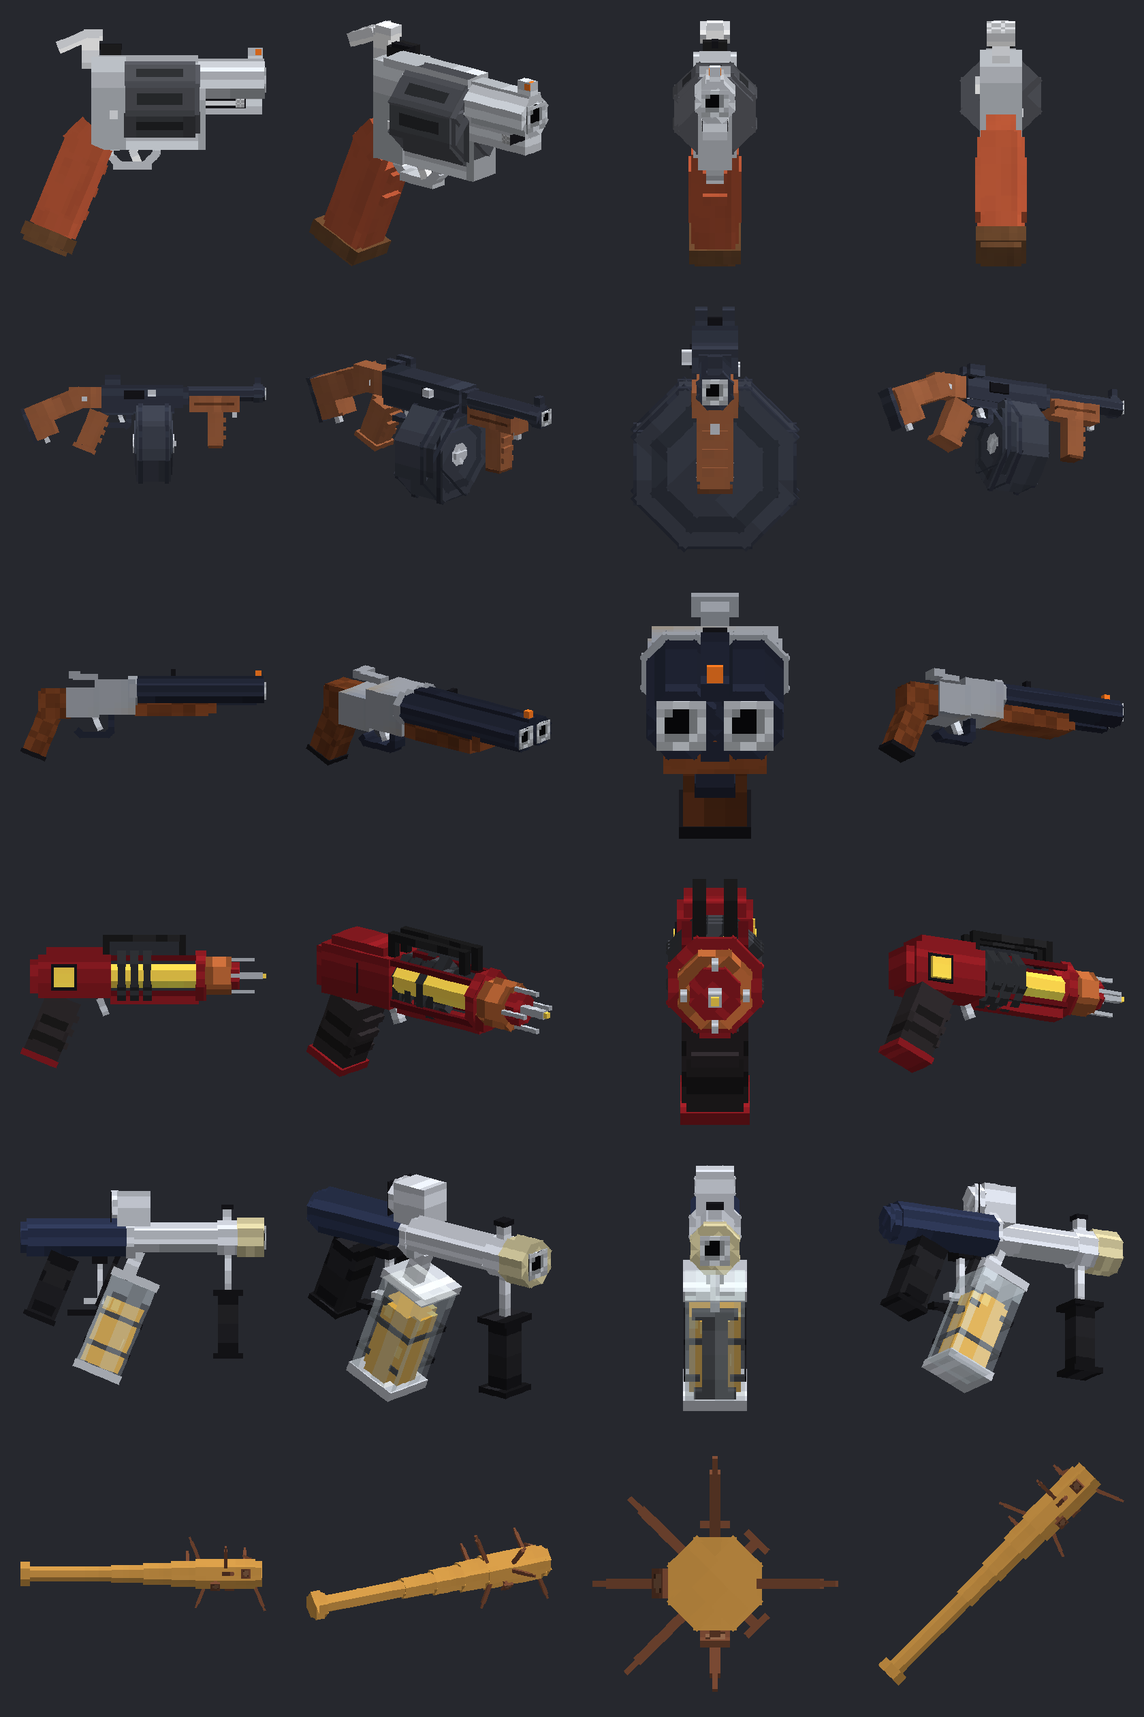
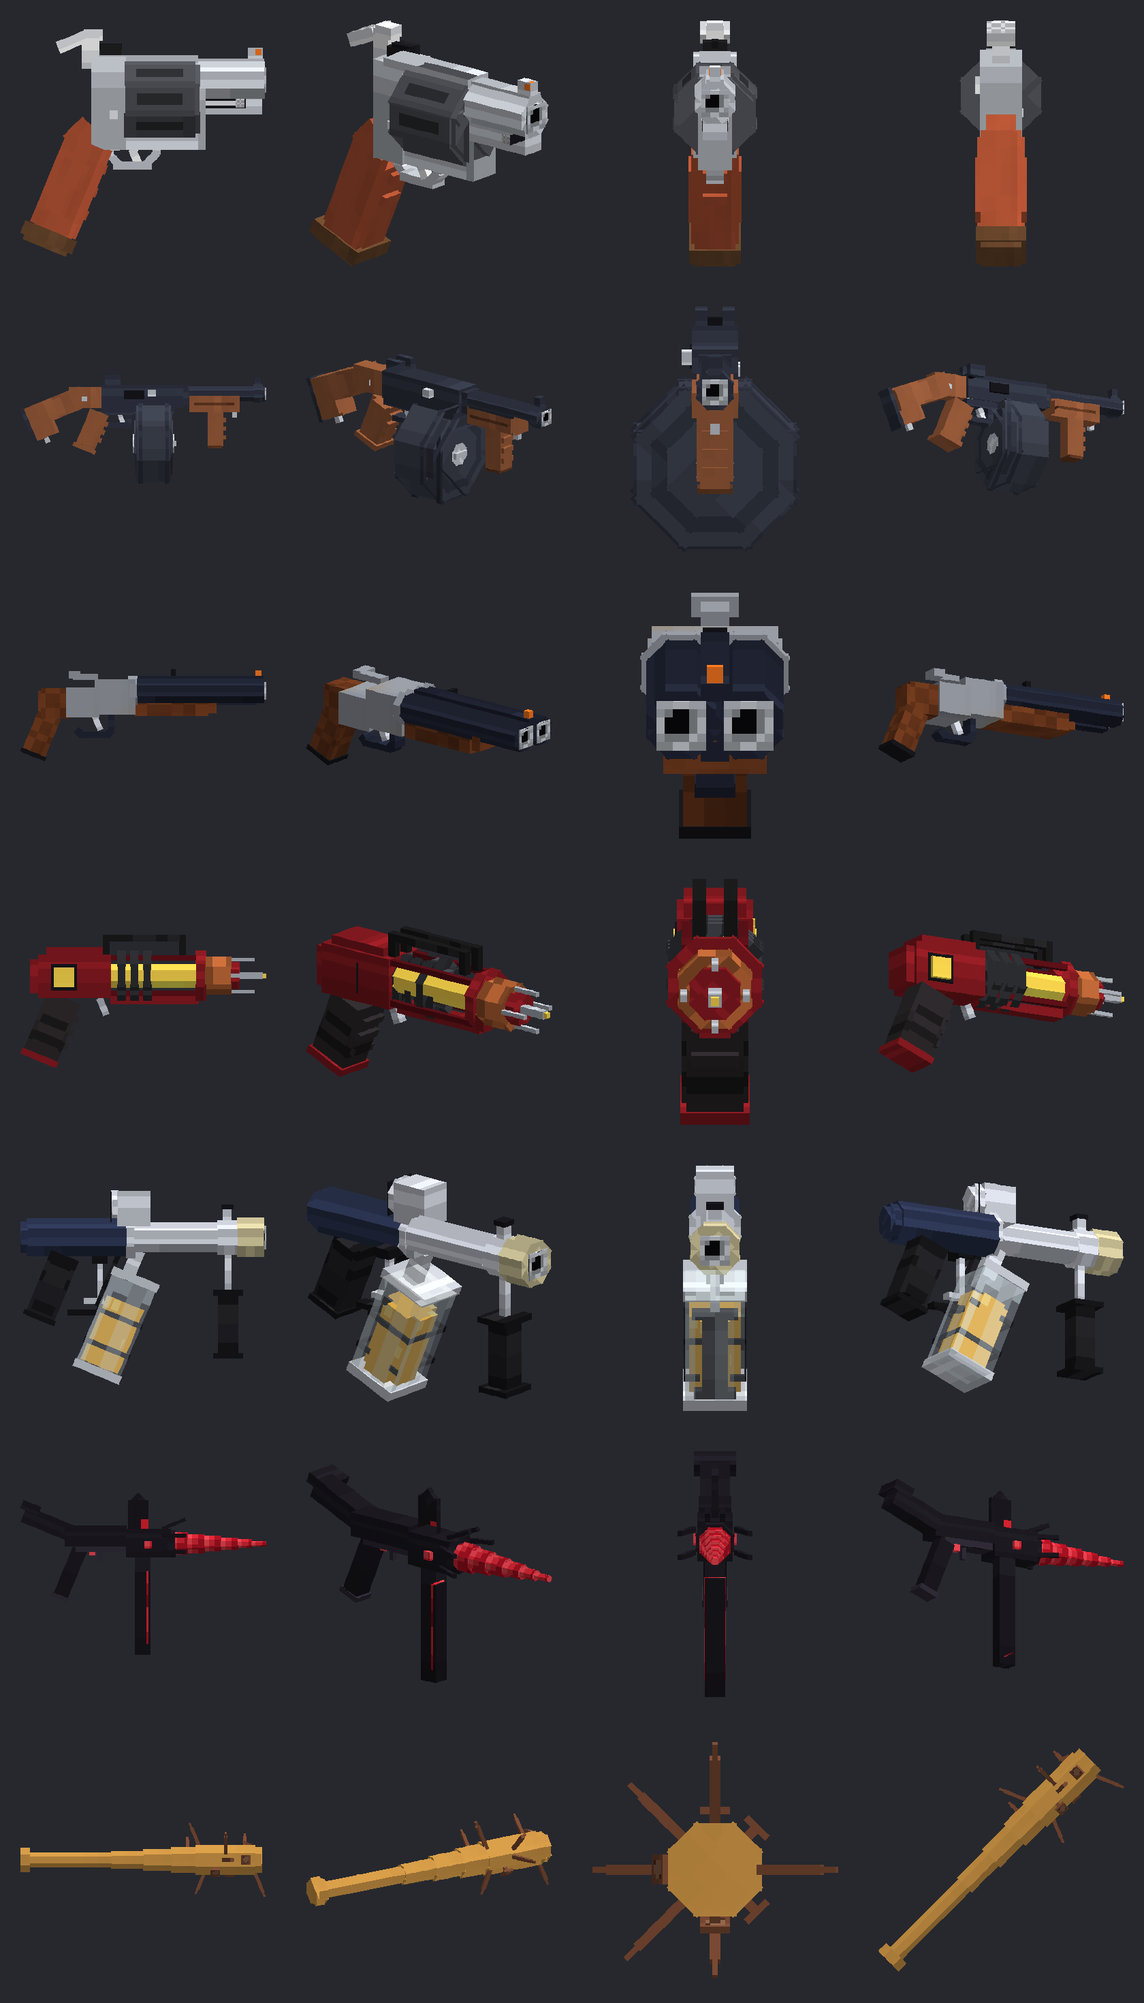
0.7.0: Umbral Lance (piercing crimson beam with Darkness; black model with glowing red crystal)
Claude-Session: https://claude.ai/code/session_01G8stAj2NsEdEgKC46eLYfu

diff --git a/src/main/java/dev/handcannon/UmbralLance.java b/src/main/java/dev/handcannon/UmbralLance.java
@@ -1,0 +1,137 @@
+package dev.handcannon;
+
+import org.bukkit.Color;
+import org.bukkit.FluidCollisionMode;
+import org.bukkit.GameMode;
+import org.bukkit.Location;
+import org.bukkit.NamespacedKey;
+import org.bukkit.Particle;
+import org.bukkit.Sound;
+import org.bukkit.SoundCategory;
+import org.bukkit.World;
+import org.bukkit.entity.Entity;
+import org.bukkit.entity.LivingEntity;
+import org.bukkit.entity.Player;
+import org.bukkit.event.Event;
+import org.bukkit.event.EventHandler;
+import org.bukkit.event.Listener;
+import org.bukkit.event.block.Action;
+import org.bukkit.event.player.PlayerInteractEntityEvent;
+import org.bukkit.event.player.PlayerInteractEvent;
+import org.bukkit.inventory.EquipmentSlot;
+import org.bukkit.inventory.ItemStack;
+import org.bukkit.persistence.PersistentDataType;
+import org.bukkit.potion.PotionEffect;
+import org.bukkit.potion.PotionEffectType;
+import org.bukkit.util.BoundingBox;
+import org.bukkit.util.RayTraceResult;
+import org.bukkit.util.Vector;
+
+import java.util.Comparator;
+import java.util.List;
+
+/**
+ * The Umbral Lance: right-click fires an instant crimson beam that pierces everything in a line up to the first
+ * wall. Each target takes damage and is wrapped in Darkness (the pulsing black vision the Warden causes).
+ */
+final class UmbralLance implements Listener {
+    private static final Particle.DustOptions CRIMSON = new Particle.DustOptions(Color.fromRGB(200, 20, 40), 1.4f);
+    private static final Particle.DustOptions EMBER = new Particle.DustOptions(Color.fromRGB(255, 70, 80), 0.8f);
+
+    private final HandCannonPlugin plugin;
+    private final NamespacedKey key;
+
+    UmbralLance(HandCannonPlugin plugin) {
+        this.plugin = plugin;
+        key = new NamespacedKey(plugin, "umbral_lance");
+    }
+
+    ItemStack create() { return plugin.makeGun(key, "Umbral Lance", "Right-click to loose a beam of darkness", "handcannon:umbral_lance"); }
+
+    boolean is(ItemStack it) {
+        return it != null && it.hasItemMeta() && it.getItemMeta().getPersistentDataContainer().has(key, PersistentDataType.BYTE);
+    }
+
+    @EventHandler
+    public void onInteract(PlayerInteractEvent e) {
+        if (e.getAction() != Action.RIGHT_CLICK_AIR && e.getAction() != Action.RIGHT_CLICK_BLOCK) return;
+        if (!is(e.getItem())) return;
+        e.setUseItemInHand(Event.Result.DENY);
+        e.setUseInteractedBlock(Event.Result.DENY);
+        Player p = e.getPlayer();
+        if (e.getHand() == EquipmentSlot.OFF_HAND && is(p.getInventory().getItemInMainHand())) return;
+        fire(p, e.getItem());
+    }
+
+    @EventHandler
+    public void onInteractEntity(PlayerInteractEntityEvent e) {
+        Player p = e.getPlayer();
+        ItemStack it = p.getInventory().getItem(e.getHand());
+        if (!is(it)) return;
+        e.setCancelled(true);
+        if (e.getHand() == EquipmentSlot.OFF_HAND && is(p.getInventory().getItemInMainHand())) return;
+        fire(p, it);
+    }
+
+    private void fire(Player p, ItemStack gun) {
+        if (!p.hasPermission("handcannon.use") || p.hasCooldown(gun)) return;
+        var cfg = plugin.getConfig();
+        p.setCooldown(gun, Math.max(1, cfg.getInt("umbral.cooldown-ticks", 24)));
+        double range = cfg.getDouble("umbral.range", 40);
+        double damage = cfg.getDouble("umbral.damage", 10);
+        int darkness = Math.max(0, cfg.getInt("umbral.darkness-ticks", 100));
+
+        World w = p.getWorld();
+        Location eye = p.getEyeLocation();
+        Vector dir = eye.getDirection().normalize();
+
+        // the beam stops at the first wall, and runs through every creature before it
+        RayTraceResult wall = w.rayTraceBlocks(eye, dir, range, FluidCollisionMode.NEVER, true);
+        double length = wall != null ? wall.getHitPosition().distance(eye.toVector()) : range;
+        Vector from = eye.toVector(), to = from.clone().add(dir.clone().multiply(length));
+        BoundingBox sweep = BoundingBox.of(from, to).expand(1.0);
+        List<LivingEntity> hits = w.getNearbyEntities(sweep, ent -> canHit(p, ent)).stream()
+                .map(ent -> (LivingEntity) ent)
+                .filter(le -> le.getBoundingBox().expand(0.3).rayTrace(from, dir, length) != null)
+                .sorted(Comparator.comparingDouble(le -> le.getLocation().distanceSquared(eye)))
+                .toList();
+
+        // muzzle, then the beam: a crimson core wrapped in drifting black smoke
+        Vector right = dir.clone().crossProduct(new Vector(0, 1, 0));
+        if (right.lengthSquared() < 1e-6) right = new Vector(1, 0, 0); else right.normalize();
+        Vector muzzle = from.clone().add(dir.clone().multiply(1.4)).add(right.multiply(0.3)).add(new Vector(0, -0.2, 0));
+        w.playSound(eye, Sound.ENTITY_WITHER_SHOOT, SoundCategory.PLAYERS, 0.8f, 0.6f);
+        w.playSound(eye, Sound.BLOCK_AMETHYST_BLOCK_RESONATE, SoundCategory.PLAYERS, 1.4f, 0.5f);
+        w.spawnParticle(Particle.SMOKE, muzzle.toLocation(w), 10, 0.1, 0.1, 0.1, 0.02);
+        Vector path = to.clone().subtract(muzzle);
+        double len = path.length();
+        if (len > 0.01) {
+            path.multiply(1 / len);
+            for (double d = 0; d < len; d += 0.3) {
+                Location at = muzzle.clone().add(path.clone().multiply(d)).toLocation(w);
+                w.spawnParticle(Particle.DUST, at, 1, 0.02, 0.02, 0.02, 0, CRIMSON);
+                if (d % 1.2 < 0.3) w.spawnParticle(Particle.SMOKE, at, 1, 0.08, 0.08, 0.08, 0.005);
+            }
+        }
+        if (wall != null) {
+            Location at = wall.getHitPosition().toLocation(w);
+            w.spawnParticle(Particle.DUST, at, 12, 0.15, 0.15, 0.15, 0, EMBER);
+            w.spawnParticle(Particle.LARGE_SMOKE, at, 3, 0.1, 0.1, 0.1, 0.01);
+        }
+
+        for (LivingEntity target : hits) {
+            target.setNoDamageTicks(0);
+            target.damage(damage, p);
+            if (darkness > 0) target.addPotionEffect(new PotionEffect(PotionEffectType.DARKNESS, darkness, 0, false, true, true));
+            Location at = target.getLocation().add(0, target.getHeight() / 2, 0);
+            w.spawnParticle(Particle.SOUL, at, 6, 0.25, 0.4, 0.25, 0.02);
+            w.spawnParticle(Particle.DUST, at, 10, 0.25, 0.4, 0.25, 0, EMBER);
+            w.playSound(at, Sound.ENTITY_WARDEN_HEARTBEAT, SoundCategory.PLAYERS, 1f, 0.8f);
+        }
+    }
+
+    private static boolean canHit(Player shooter, Entity ent) {
+        if (ent == shooter || !(ent instanceof LivingEntity le) || le.isDead()) return false;
+        return !(ent instanceof Player pl && pl.getGameMode() == GameMode.SPECTATOR);
+    }
+}

diff --git a/tools/make_pack.py b/tools/make_pack.py
@@ -601,6 +601,68 @@ box((6.1, 1.4, 7.7), (9.9, 8.4, 10.3), "rubber", rot=PG)
 box((6.0, 0.4, 7.0), (10.0, 1.0, 11.0), "rubber", rot=PG)
 GOO = elements
 
+# ---------------- geometry: umbral lance ----------------
+# An ominous darkness weapon: a long tapering spike of glowing red crystal out of a black, thorned receiver with a
+# red gem each side and a tall fin carrying a red rune, a long stock rising to a flared tail, a tall blade-like
+# front grip with a red inlay and a raked rear grip. Barrel toward north (-z) like the other guns.
+def tex_crystal():
+    im = Image.new("RGBA", (16, 16)); px = im.load()
+    for y in range(16):
+        for x in range(16):
+            k = (x + y) % 8
+            c = (236, 70, 82) if k == 0 else (214, 40, 54) if k in (1, 7) else (170, 18, 34) if k < 5 else (124, 10, 24)
+            px[x, y] = c + (255,)
+    return im
+def tex_rune():
+    """Black plate with an original red sigil: a downward triangle with an eye-ring and a spike through it."""
+    S = 64; im = Image.new("RGBA", (S, S), (26, 24, 30, 255)); d = ImageDraw.Draw(im)
+    red = (220, 34, 48, 255)
+    d.polygon([(10, 12), (54, 12), (32, 54)], outline=red, width=3)
+    d.ellipse((24, 18, 40, 34), outline=red, width=3)
+    d.ellipse((30, 24, 34, 28), fill=red)
+    d.line((32, 4, 32, 60), fill=red, width=2)
+    return im
+UMB_TEX = {"black": tex_metal((26, 24, 30)), "black_soft": tex_metal((44, 40, 50), 0, edge=False),
+           "crystal": tex_crystal(), "rune": tex_rune()}
+for k, im in UMB_TEX.items(): im.save(path("assets", NS, "textures", "item", "umbral_lance", k + ".png"))
+FULL_UV.add("rune")
+
+elements = []
+# the crystal spike: stepped round sections tapering to a point, and a black collar where it meets the receiver
+for z0, z1, dia in ((-16.0, -13.5, 0.8), (-13.5, -11.0, 1.4), (-11.0, -8.0, 2.0), (-8.0, -5.0, 2.6), (-5.0, -2.0, 3.2), (-2.0, 0.6, 3.8)):
+    round_prism(8, 11.0, dia, z0, z1, "crystal")
+round_prism(8, 11.0, 4.7, 0.3, 1.5, "black")
+# receiver, with thorns jutting forward and outward, and a red gem on each side
+box((5.8, 8.6, 1.0), (10.2, 13.6, 9.0), "black")
+for y0 in (12.2, 9.2):
+    box((5.0, y0, -2.0), (5.6, y0 + 0.6, 2.4), "black", rot=("y", 22.5, (5.3, y0 + 0.3, 2.4)))      # left thorns
+    box((10.4, y0, -2.0), (11.0, y0 + 0.6, 2.4), "black", rot=("y", -22.5, (10.7, y0 + 0.3, 2.4)))  # right thorns
+for x0 in (6.8, 8.6):
+    box((x0, 13.4, -2.0), (x0 + 0.6, 14.0, 2.4), "black", rot=("x", 22.5, (x0 + 0.3, 13.7, 2.4)))   # top thorns
+box((5.3, 10.2, 4.4), (5.85, 11.4, 5.6), "crystal")                    # gems
+box((10.15, 10.2, 4.4), (10.7, 11.4, 5.6), "crystal")
+# tall fin with the rune on both faces, capped with a point
+box((7.6, 13.6, 5.0), (8.4, 18.8, 8.6), "black", {"east": "rune", "west": "rune"})
+box((7.62, 18.0, 5.9), (8.38, 19.8, 7.7), "black", rot=("x", 45, (8, 18.9, 6.8)))
+# long stock: a flat body, then a section rising to a flared tail, with a lower plate
+box((6.0, 10.6, 9.0), (10.0, 14.2, 20.0), "black")
+RISE = ("x", -22.5, (8, 13.0, 19.0))
+box((6.2, 11.4, 19.0), (9.8, 14.4, 28.0), "black", rot=RISE)
+box((5.4, 13.6, 25.6), (10.6, 15.2, 29.0), "black", rot=RISE)          # flared tail
+box((6.4, 9.6, 9.1), (9.6, 10.8, 18.0), "black_soft")                  # lower plate
+# tall blade-like front grip with a red inlay down each side
+box((6.8, -9.0, 4.6), (9.2, 8.8, 7.4), "black")
+box((6.7, -7.0, 5.0), (9.3, 6.0, 5.3), "crystal")
+# trigger and the raked rear grip, with a red knob at its top
+box((7.6, 7.8, 13.4), (8.4, 9.6, 14.0), "black_soft")
+GR = ("x", -22.5, (8, 10.0, 17.3))
+box((6.6, 1.0, 16.0), (9.4, 10.0, 18.6), "black", rot=GR)
+box((6.4, 0.2, 15.6), (9.6, 1.0, 19.0), "black_soft", rot=GR)
+box((7.4, 9.0, 14.6), (8.6, 10.0, 15.6), "crystal")
+for e in elements:   # the crystal glows faintly in the dark
+    if any(f["texture"] == "#crystal" for f in e["faces"].values()): e["light_emission"] = 10
+UMBRAL = elements
+
 # ---------------- maths for preview + auto-centring ----------------
 def rot_axis(v, axis, deg, origin):
     a = math.radians(deg); c, s = math.cos(a), math.sin(a)
@@ -682,6 +744,16 @@ GOO_DISPLAY = {
     "thirdperson_righthand": centred(GOO, (0, 0, 0), 0.5, (0, 3, -2)),
     "thirdperson_lefthand":  centred(GOO, (0, 0, 0), 0.5, (0, 3, -2)),
 }
+UMBRAL_DISPLAY = {
+    "gui":                   centred(UMBRAL, (0, 90, 0), 0.34),
+    "ground":                centred(UMBRAL, (0, 90, 0), 0.26),
+    "fixed":                 centred(UMBRAL, (0, 90, 0), 0.36),
+    "head":                  centred(UMBRAL, (0, 0, 0), 0.4, (0, 8, 0)),
+    "firstperson_righthand": centred(UMBRAL, (0, 0, 0), 0.5, (3, -1, -4)),
+    "firstperson_lefthand":  centred(UMBRAL, (0, 0, 0), 0.5, (3, -1, -4)),
+    "thirdperson_righthand": centred(UMBRAL, (0, 0, 0), 0.5, (0, 3, -1)),
+    "thirdperson_lefthand":  centred(UMBRAL, (0, 0, 0), 0.5, (0, 3, -1)),
+}
 # The bat is held like a sword: these are vanilla's handheld transforms, turned 45 degrees further because the
 # bat model stands upright where a sword sprite runs corner to corner.
 BAT_DISPLAY = {
@@ -709,6 +781,7 @@ write_item("tommy_gun", TOMMY, TOMMY_TEX, TOMMY_DISPLAY, "steel")
 write_item("shotgun", SHOTGUN, SG_TEX, SHOTGUN_DISPLAY, "blued")
 write_item("pala_pistol", PALA, PALA_TEX, PALA_DISPLAY, "body")
 write_item("goo_cannon", GOO, GOO_TEX, GOO_DISPLAY, "steel", GOO_TEX_PATHS)
+write_item("umbral_lance", UMBRAL, UMB_TEX, UMBRAL_DISPLAY, "black")
 # pack.mcmeta: resource pack format 88 = Minecraft 26.2
 wjson(path("pack.mcmeta"), {"pack": {"description": "HandCannon weapons", "min_format": [88, 0], "max_format": [99, 0]}})
 
@@ -772,6 +845,7 @@ rows = [[render(GUN, TEX, -90, 0), render(GUN, TEX, -130, 18), render(GUN, TEX, 
         [render(SHOTGUN, SG_TEX, -90, 0), render(SHOTGUN, SG_TEX, -130, 18), render(SHOTGUN, SG_TEX, 180, 8), render(SHOTGUN, SG_TEX, -60, -15)],
         [render(PALA, PALA_TEX, -90, 0), render(PALA, PALA_TEX, -130, 18), render(PALA, PALA_TEX, 180, 8), render(PALA, PALA_TEX, -60, -15)],
         [render(GOO, GOO_PREVIEW_TEX, -90, 0), render(GOO, GOO_PREVIEW_TEX, -130, 18), render(GOO, GOO_PREVIEW_TEX, 180, 8), render(GOO, GOO_PREVIEW_TEX, -60, -15)],
+        [render(UMBRAL, UMB_TEX, -90, 0), render(UMBRAL, UMB_TEX, -130, 18), render(UMBRAL, UMB_TEX, 180, 8), render(UMBRAL, UMB_TEX, -60, -15)],
         [render(BAT, BAT_TEX, 0, 0, -90), render(BAT, BAT_TEX, 30, 20, -90), render(BAT, BAT_TEX, 0, 90), render(BAT, BAT_TEX, 0, 0, -45)]]
 pv = Image.new("RGBA", (420 * 4, 420 * len(rows)))
 for r, row in enumerate(rows):

diff --git a/src/main/java/dev/handcannon/HandCannonPlugin.java b/src/main/java/dev/handcannon/HandCannonPlugin.java
@@ -54,6 +54,7 @@ public final class HandCannonPlugin extends JavaPlugin implements Listener, TabE
     private NailBat bat;
     private PalaPistol pala;
     private GooCannon goo;
+    private UmbralLance umbral;
     /** Last tick each player fired the Tommy gun, so one click can't fire twice (both hands, block + entity events). */
     private final Map<UUID, Integer> lastTommyShot = new HashMap<>();
 
@@ -68,10 +69,12 @@ public final class HandCannonPlugin extends JavaPlugin implements Listener, TabE
         bat = new NailBat(this);
         pala = new PalaPistol(this);
         goo = new GooCannon(this);
+        umbral = new UmbralLance(this);
         getServer().getPluginManager().registerEvents(this, this);
         getServer().getPluginManager().registerEvents(bat, this);
         getServer().getPluginManager().registerEvents(pala, this);
         getServer().getPluginManager().registerEvents(goo, this);
+        getServer().getPluginManager().registerEvents(umbral, this);
         var cmd = getCommand("handcannon");
         if (cmd != null) { cmd.setExecutor(this); cmd.setTabCompleter(this); }
     }
@@ -311,17 +314,17 @@ public final class HandCannonPlugin extends JavaPlugin implements Listener, TabE
         String sub = args.length == 0 ? "give" : args[0].toLowerCase();
         switch (sub) {
             case "give" -> {
-                // /hc give [gun|tommy|shotgun|pala|goo|bat] [player]; the item can be left out (gun)
+                // /hc give [gun|tommy|shotgun|pala|goo|umbral|bat] [player]; the item can be left out (gun)
                 int i = 1;
                 String what = "gun";
-                if (args.length > i && List.of("gun", "tommy", "shotgun", "pala", "goo", "bat").contains(args[i].toLowerCase())) what = args[i++].toLowerCase();
+                if (args.length > i && List.of("gun", "tommy", "shotgun", "pala", "goo", "umbral", "bat").contains(args[i].toLowerCase())) what = args[i++].toLowerCase();
                 Player target;
                 if (args.length > i) target = Bukkit.getPlayerExact(args[i]);
                 else target = sender instanceof Player self ? self : null;
-                if (target == null) { sender.sendMessage(Component.text("Usage: /" + label + " give [gun|tommy|shotgun|pala|goo|bat] <player>", NamedTextColor.RED)); return true; }
-                ItemStack item = switch (what) { case "bat" -> bat.create(); case "tommy" -> createTommy(); case "shotgun" -> createShotgun(); case "pala" -> pala.create(); case "goo" -> goo.create(); default -> createGun(); };
+                if (target == null) { sender.sendMessage(Component.text("Usage: /" + label + " give [gun|tommy|shotgun|pala|goo|umbral|bat] <player>", NamedTextColor.RED)); return true; }
+                ItemStack item = switch (what) { case "bat" -> bat.create(); case "tommy" -> createTommy(); case "shotgun" -> createShotgun(); case "pala" -> pala.create(); case "goo" -> goo.create(); case "umbral" -> umbral.create(); default -> createGun(); };
                 target.getInventory().addItem(item).values().forEach(left -> target.getWorld().dropItem(target.getLocation(), left));
-                sender.sendMessage(Component.text("Gave a " + switch (what) { case "bat" -> "Nail Bat"; case "tommy" -> "Tommy Gun"; case "shotgun" -> "Double Barrel"; case "pala" -> "Pala-Pistol"; case "goo" -> "Goo Cannon"; default -> "Hand Cannon"; } + " to " + target.getName(), NamedTextColor.GOLD));
+                sender.sendMessage(Component.text("Gave a " + switch (what) { case "bat" -> "Nail Bat"; case "tommy" -> "Tommy Gun"; case "shotgun" -> "Double Barrel"; case "pala" -> "Pala-Pistol"; case "goo" -> "Goo Cannon"; case "umbral" -> "Umbral Lance"; default -> "Hand Cannon"; } + " to " + target.getName(), NamedTextColor.GOLD));
             }
             case "reload" -> {
                 reloadConfig();
@@ -332,7 +335,7 @@ public final class HandCannonPlugin extends JavaPlugin implements Listener, TabE
                 if (target == null) { sender.sendMessage(Component.text("Usage: /" + label + " pack <player>", NamedTextColor.RED)); return true; }
                 sendPack(target);
             }
-            default -> sender.sendMessage(Component.text("Usage: /" + label + " give [gun|tommy|shotgun|pala|goo|bat] [player] | reload | pack [player]", NamedTextColor.RED));
+            default -> sender.sendMessage(Component.text("Usage: /" + label + " give [gun|tommy|shotgun|pala|goo|umbral|bat] [player] | reload | pack [player]", NamedTextColor.RED));
         }
         return true;
     }
@@ -343,7 +346,7 @@ public final class HandCannonPlugin extends JavaPlugin implements Listener, TabE
         if (args.length == 1) {
             for (String s : List.of("give", "reload", "pack")) if (s.startsWith(args[0].toLowerCase())) out.add(s);
         } else if (args.length == 2 && args[0].equalsIgnoreCase("give")) {
-            for (String s : List.of("gun", "tommy", "shotgun", "pala", "goo", "bat")) if (s.startsWith(args[1].toLowerCase())) out.add(s);
+            for (String s : List.of("gun", "tommy", "shotgun", "pala", "goo", "umbral", "bat")) if (s.startsWith(args[1].toLowerCase())) out.add(s);
             for (Player pl : Bukkit.getOnlinePlayers()) if (pl.getName().toLowerCase().startsWith(args[1].toLowerCase())) out.add(pl.getName());
         } else if (args.length == 3 && args[0].equalsIgnoreCase("give")) {
             for (Player pl : Bukkit.getOnlinePlayers()) if (pl.getName().toLowerCase().startsWith(args[2].toLowerCase())) out.add(pl.getName());

diff --git a/README.md b/README.md
@@ -2,8 +2,8 @@
 
 A comically oversized snubnose revolver (right-click to fire), a cartoon M1-style Tommy gun with a huge drum magazine
 (hold right-click for full auto), a chunky sawed-off side-by-side shotgun (right-click for a blast of pellets),
-the Pala-Pistol (a slow bolt of light that stuns), the Goo Cannon (a glob of honey that traps) and a nail-studded
-baseball bat (hold right-click to wind up a home run), all with 3D models. No ammo, no reloading.
+the Pala-Pistol (a slow bolt of light that stuns), the Goo Cannon (a glob of honey that traps), the Umbral Lance (a piercing beam of darkness)
+and a nail-studded baseball bat (hold right-click to wind up a home run), all with 3D models. No ammo, no reloading.
 
 ![preview](preview.png)
 
@@ -25,7 +25,7 @@ person, third person, the inventory and item frames is the `DISPLAY` table near 
 change a rotation, nudge or scale, re-run the script and re-host the zip.
 
 ## Commands
-    /hc give [gun|tommy|shotgun|pala|goo|bat] [player]   give a Hand Cannon (default), Tommy Gun, Double Barrel, Pala-Pistol, Goo Cannon or Nail Bat (op)
+    /hc give [gun|tommy|shotgun|pala|goo|umbral|bat] [player]   give a Hand Cannon (default), Tommy Gun, Double Barrel, Pala-Pistol, Goo Cannon, Umbral Lance or Nail Bat (op)
     /hc reload              reload config.yml (op)
     /hc pack [player]       resend the resource pack (op)
 Permission `handcannon.use` (everyone by default) is needed to fire.
@@ -53,6 +53,11 @@ Right-click lobs a glob of honey that arcs like a thrown snowball. It does no da
 honey-block shell and can't move, jump or fall for 3.5 seconds. A trapped player can mash Shift to break out early
 (12 presses; a progress bar shows on the action bar). The canister's goo uses Minecraft's own honey block texture.
 Settings are under `goo:`.
+
+## Umbral Lance
+Right-click fires an instant crimson beam that runs through every creature in a line, up to the first wall. Each
+target takes 10 damage (five hearts) and gets the Darkness effect for 5 seconds. The model's red crystal glows
+faintly in the dark. Settings are under `umbral:`.
 
 ## Nail Bat
 Left-click is a normal hit: 10 damage (five hearts) at full strength, a bit under one swing a second.
